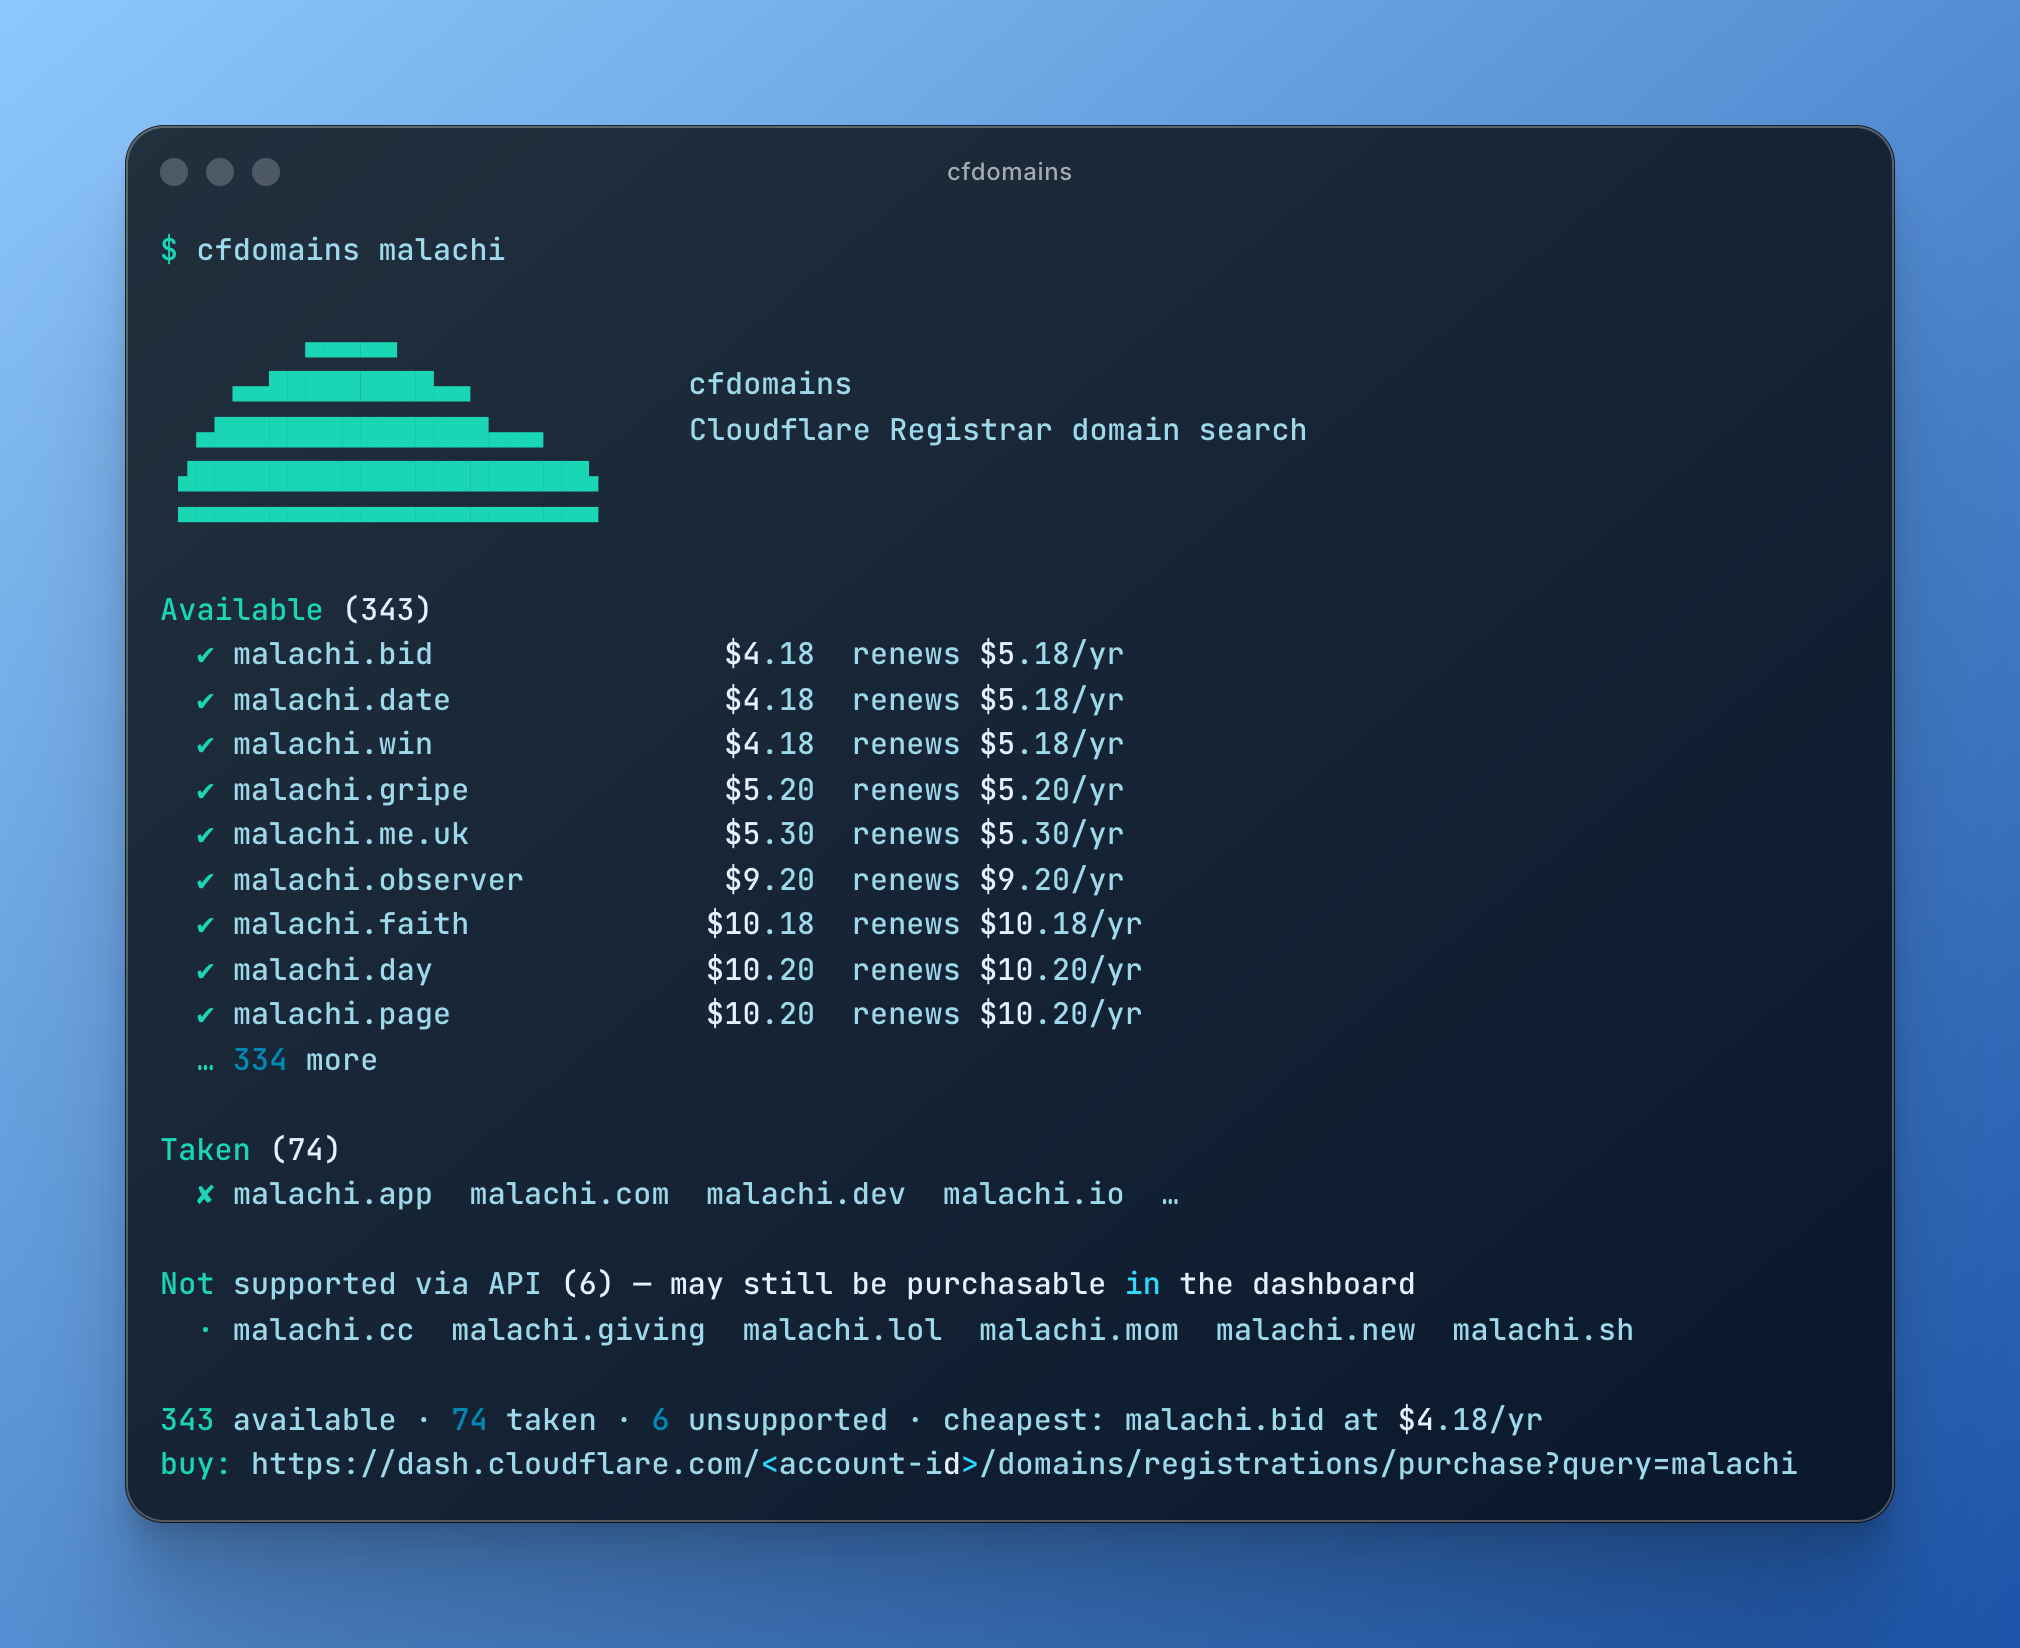
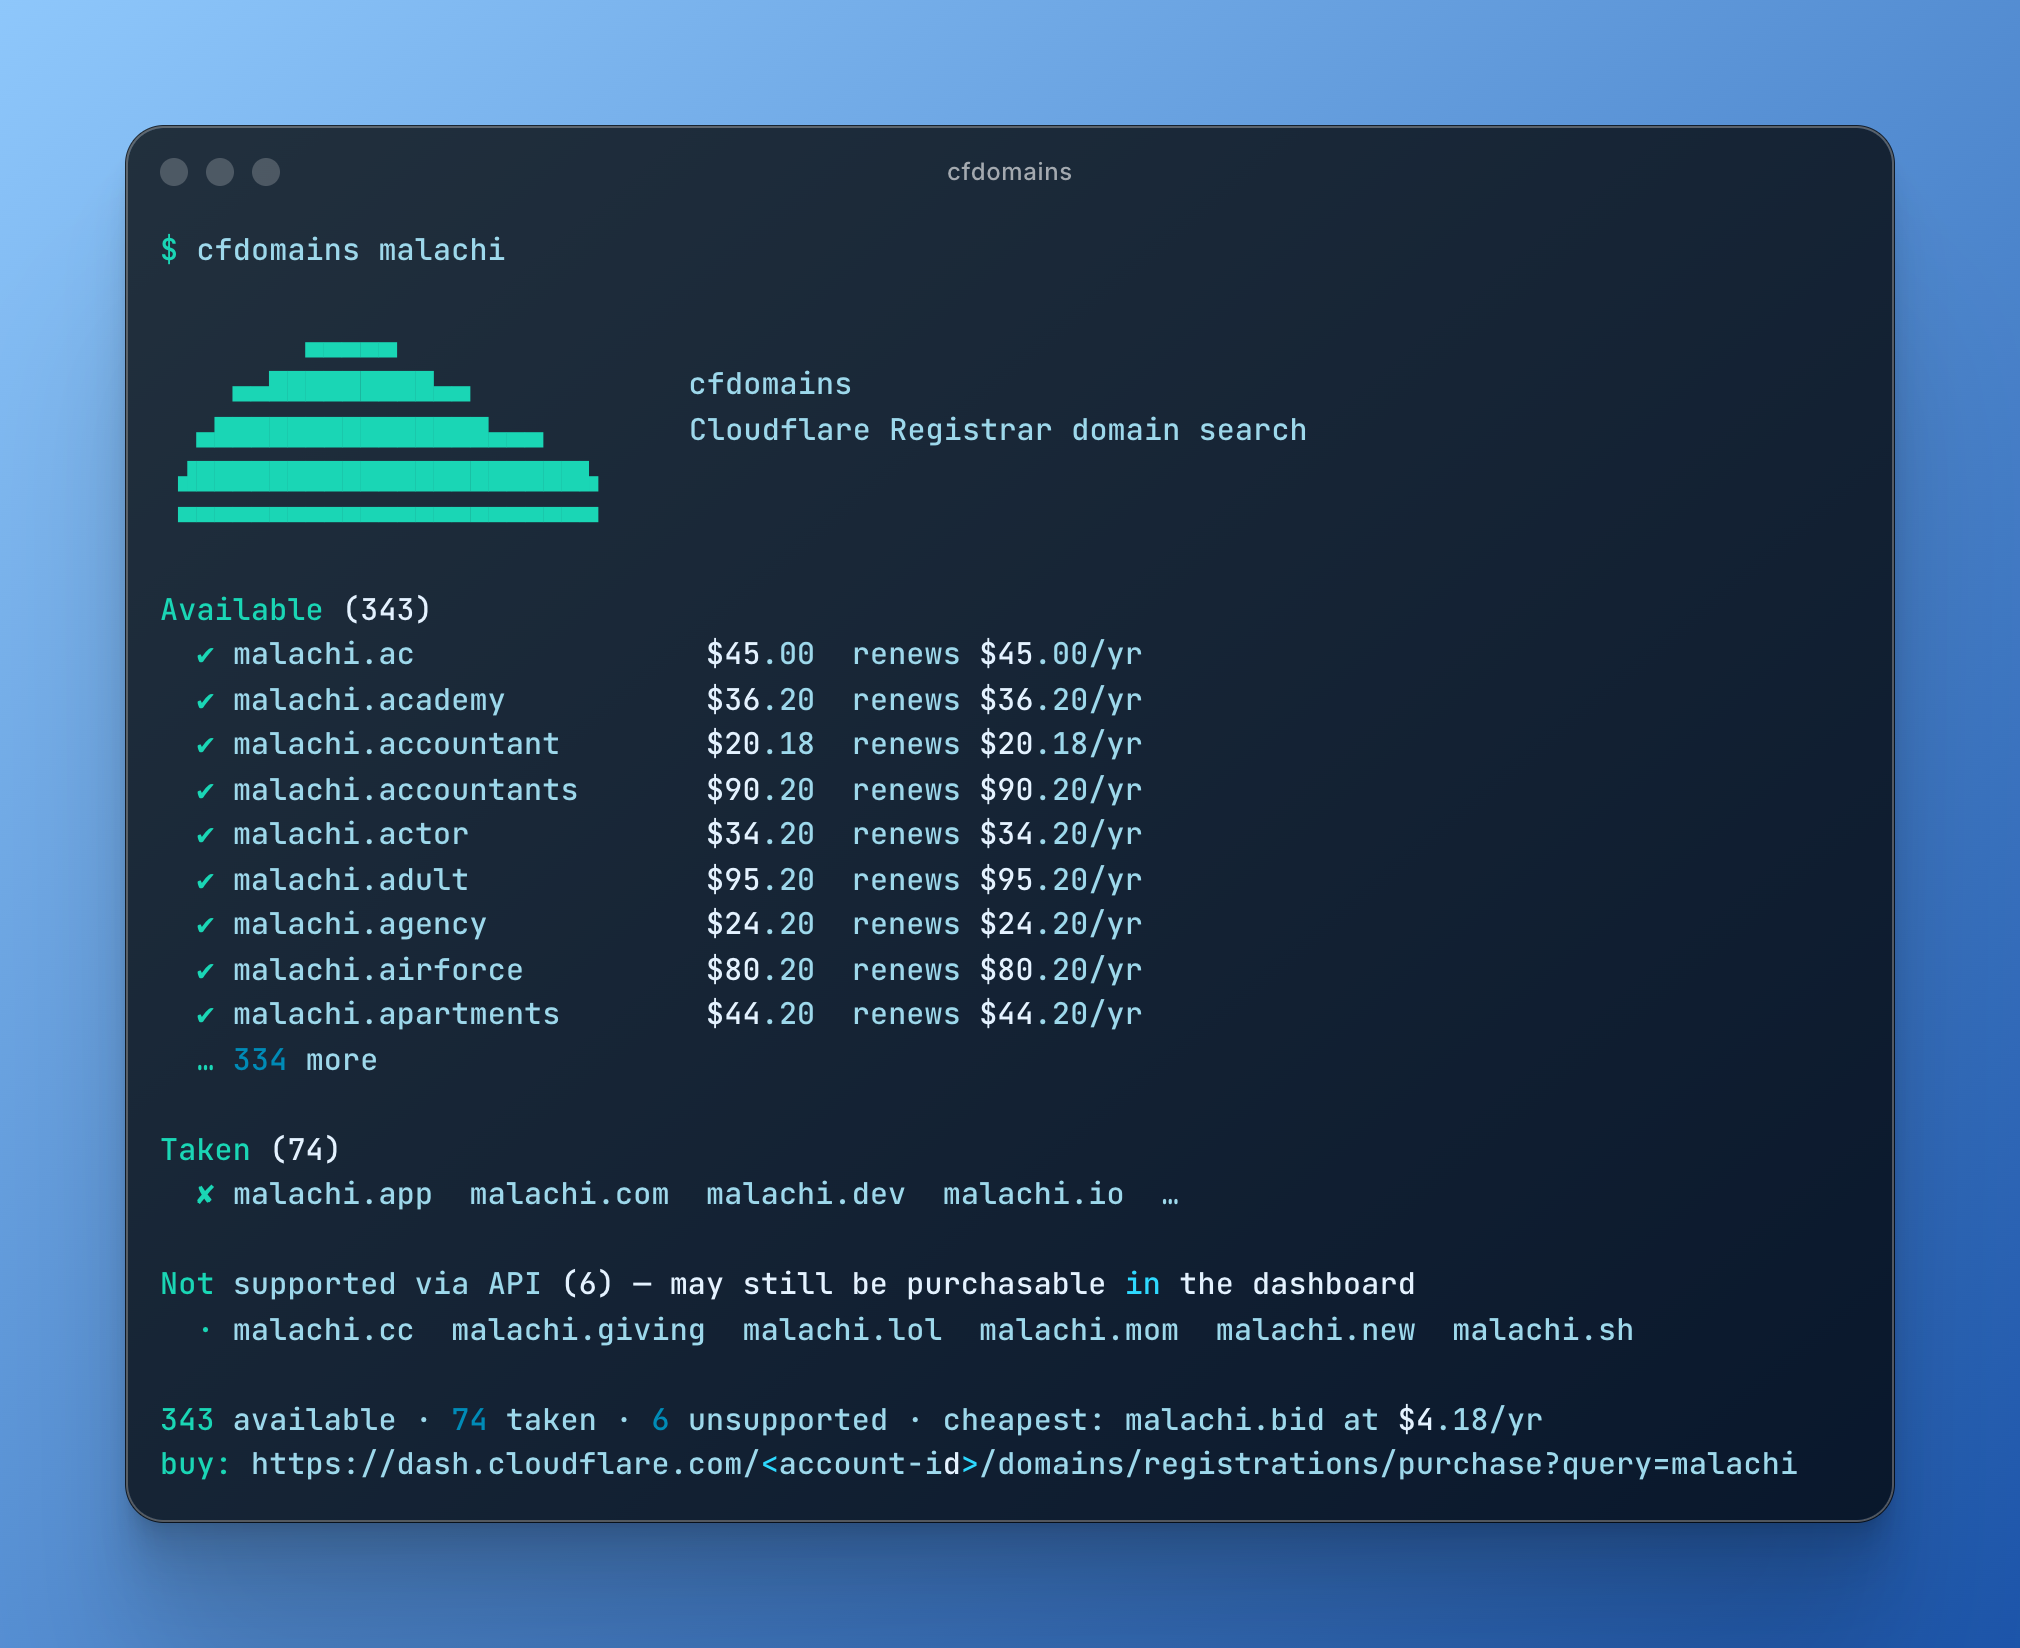
Sort available domains alphabetically instead of by price
The summary line still calls out the cheapest find; --json output is now
sorted by name too. Sweep screenshots regenerated from real output.

diff --git a/scripts/screenshots.ts b/scripts/screenshots.ts
@@ -35,15 +35,15 @@ const shots: ReadonlyArray<Shot> = [
       " ▀▀▀▀▀▀▀▀▀▀▀▀▀▀▀▀▀▀▀▀▀▀▀",
       "",
       "Available (343)",
-      "  ✔ malachi.bid                $4.18  renews $5.18/yr",
-      "  ✔ malachi.date               $4.18  renews $5.18/yr",
-      "  ✔ malachi.win                $4.18  renews $5.18/yr",
-      "  ✔ malachi.gripe              $5.20  renews $5.20/yr",
-      "  ✔ malachi.me.uk              $5.30  renews $5.30/yr",
-      "  ✔ malachi.observer           $9.20  renews $9.20/yr",
-      "  ✔ malachi.faith             $10.18  renews $10.18/yr",
-      "  ✔ malachi.day               $10.20  renews $10.20/yr",
-      "  ✔ malachi.page              $10.20  renews $10.20/yr",
+      "  ✔ malachi.ac                $45.00  renews $45.00/yr",
+      "  ✔ malachi.academy           $36.20  renews $36.20/yr",
+      "  ✔ malachi.accountant        $20.18  renews $20.18/yr",
+      "  ✔ malachi.accountants       $90.20  renews $90.20/yr",
+      "  ✔ malachi.actor             $34.20  renews $34.20/yr",
+      "  ✔ malachi.adult             $95.20  renews $95.20/yr",
+      "  ✔ malachi.agency            $24.20  renews $24.20/yr",
+      "  ✔ malachi.airforce          $80.20  renews $80.20/yr",
+      "  ✔ malachi.apartments        $44.20  renews $44.20/yr",
       "  … 334 more",
       "",
       "Taken (74)",
@@ -72,10 +72,10 @@ const shots: ReadonlyArray<Shot> = [
       "",
       "Available (5)",
       "  ✔ malachi.day       $10.20  renews $10.20/yr",
+      "  ✔ malachi.haus      $26.20  renews $26.20/yr",
+      "  ✔ malachi.ninja     $24.20  renews $24.20/yr",
       "  ✔ malachi.page      $10.20  renews $10.20/yr",
       "  ✔ malachi.rocks     $17.20  renews $17.20/yr",
-      "  ✔ malachi.ninja     $24.20  renews $24.20/yr",
-      "  ✔ malachi.haus      $26.20  renews $26.20/yr",
       "",
       "Taken (4)",
       "  ✘ malachi.app  malachi.com  malachi.dev  malachi.io",

diff --git a/test/Report.test.ts b/test/Report.test.ts
@@ -18,16 +18,18 @@ const day = new CheckedDomain({ name: "acme.day", registrable: true, tier: "stan
 const bid = new CheckedDomain({ name: "acme.bid", registrable: true, tier: "standard", pricing: pricing("4.18") })
 const com = new CheckedDomain({ name: "acme.com", registrable: false, reason: "domain_unavailable" })
 const sh = new CheckedDomain({ name: "acme.sh", registrable: false, reason: "extension_not_supported_via_api" })
+const zone = new CheckedDomain({ name: "acme.zone", registrable: true, tier: "standard", pricing: pricing("2.00") })
 const results = [day, bid, com, sh]
 
 describe("render", () => {
-  it("groups results and sorts available cheapest first", () => {
-    const output = render(results, [], options, plain)
-    assertInclude(output, "Available (2)")
+  it("groups results, sorts available alphabetically, summarizes the cheapest", () => {
+    const output = render([...results, zone], [], options, plain)
+    assertInclude(output, "Available (3)")
     assertInclude(output, "Taken (1)")
     assertInclude(output, "Not supported via API (1)")
     assertTrue(output.indexOf("acme.bid") < output.indexOf("acme.day"))
-    assertInclude(output, "2 available · 1 taken · 1 unsupported · cheapest: acme.bid at $4.18/yr")
+    assertTrue(output.indexOf("acme.day") < output.indexOf("acme.zone"))
+    assertInclude(output, "3 available · 1 taken · 1 unsupported · cheapest: acme.zone at $2.00/yr")
     assertInclude(output, `buy: ${purchaseUrl("acct", "acme")}`)
   })
 

diff --git a/src/Report.ts b/src/Report.ts
@@ -86,7 +86,7 @@ export const render = (
 
   const available = results
     .filter((d) => d.registrable)
-    .toSorted((a, b) => registrationCost(a) - registrationCost(b))
+    .toSorted((a, b) => a.name.localeCompare(b.name))
   const taken = results
     .filter((d) => !d.registrable && d.reason !== UNSUPPORTED)
     .toSorted((a, b) => a.name.localeCompare(b.name))
@@ -141,7 +141,7 @@ export const render = (
     )
   }
 
-  const cheapest = available[0]
+  const cheapest = available.toSorted((a, b) => registrationCost(a) - registrationCost(b))[0]
   lines.push("")
   lines.push(
     `${bold(String(available.length))} available · ${taken.length} taken · ` +

diff --git a/src/Cli.ts b/src/Cli.ts
@@ -217,7 +217,8 @@ const check = Effect.fn(function*(input: {
   const { results, failures } = yield* sweep(credentials, targets, showProgress)
 
   if (input.json) {
-    const selected = input.available ? results.filter((d) => d.registrable) : results
+    const selected = (input.available ? results.filter((d) => d.registrable) : results)
+      .toSorted((a, b) => a.name.localeCompare(b.name))
     const payload = selected.map((d) =>
       d.registrable
         ? { ...d, purchase_url: purchaseUrl(credentials.accountId, d.name) }

diff --git a/README.md b/README.md
@@ -41,8 +41,8 @@ cfdomains myname --live-tlds        # merge the latest TLD list from cfdomainpri
 
 Results come back in three groups:
 
-- **Available** — sorted cheapest first, with registration and renewal prices; premium
-  tiers are flagged.
+- **Available** — sorted alphabetically, with registration and renewal prices; premium
+  tiers are flagged and the summary line calls out the cheapest find.
 - **Taken** — already registered.
 - **Unsupported** — TLDs the beta API can't check yet. These may still be purchasable in
   the dashboard; the summary line prints the purchase URL.
